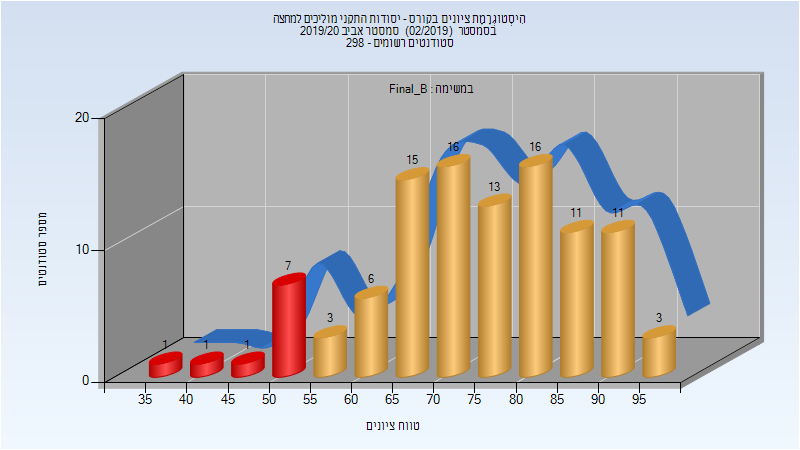
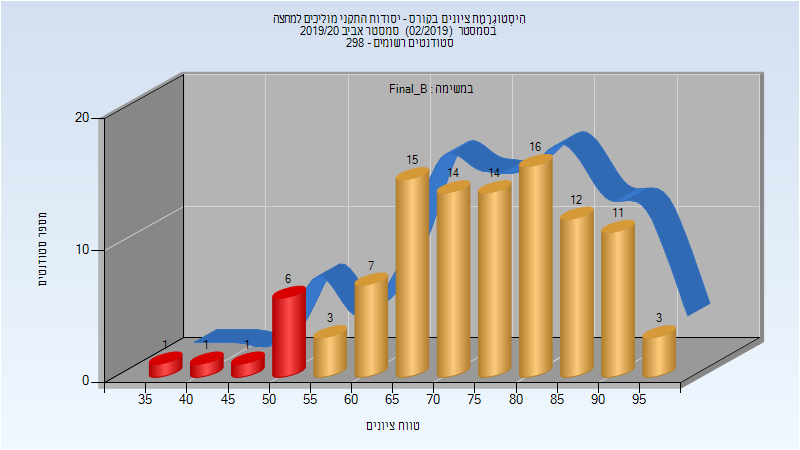
Deploy michael-maltsev/technion-histograms to github.com/michael-maltsev/technion-histograms.git:gh-pages

diff --git a/044127/index.html b/044127/index.html
@@ -476,11 +476,11 @@
 <tbody>
 <tr>
 <td>104</td>
-<td>91/13</td>
+<td>92/12</td>
 <td>88</td>
 <td>33</td>
 <td>99</td>
-<td>71.452</td>
+<td>71.798</td>
 <td>73</td>
 </tr>
 </tbody>
@@ -502,11 +502,11 @@
 <tbody>
 <tr>
 <td>104</td>
-<td>94/10</td>
-<td>90</td>
+<td>95/9</td>
+<td>91</td>
 <td>35</td>
 <td>99</td>
-<td>74.644</td>
+<td>74.942</td>
 <td>76</td>
 </tr>
 </tbody>

diff --git a/044127/README.md b/044127/README.md
@@ -144,7 +144,7 @@
 
 | סטודנטים | עברו/נכשלו | אחוז עוברים | ציון מינימלי | ציון מקסימלי | ממוצע | חציון |
 | ---- | ---- | ---- | ---- | ---- | ---- | ---- |
-| 104 | 91/13 | 88 | 33 | 99 | 71.452 | 73 |
+| 104 | 92/12 | 88 | 33 | 99 | 71.798 | 73 |
 
 ### סופי מועד ב'
 
@@ -152,7 +152,7 @@
 
 | סטודנטים | עברו/נכשלו | אחוז עוברים | ציון מינימלי | ציון מקסימלי | ממוצע | חציון |
 | ---- | ---- | ---- | ---- | ---- | ---- | ---- |
-| 104 | 94/10 | 90 | 35 | 99 | 74.644 | 76 |
+| 104 | 95/9 | 91 | 35 | 99 | 74.942 | 76 |
 
 ### סופי
 
